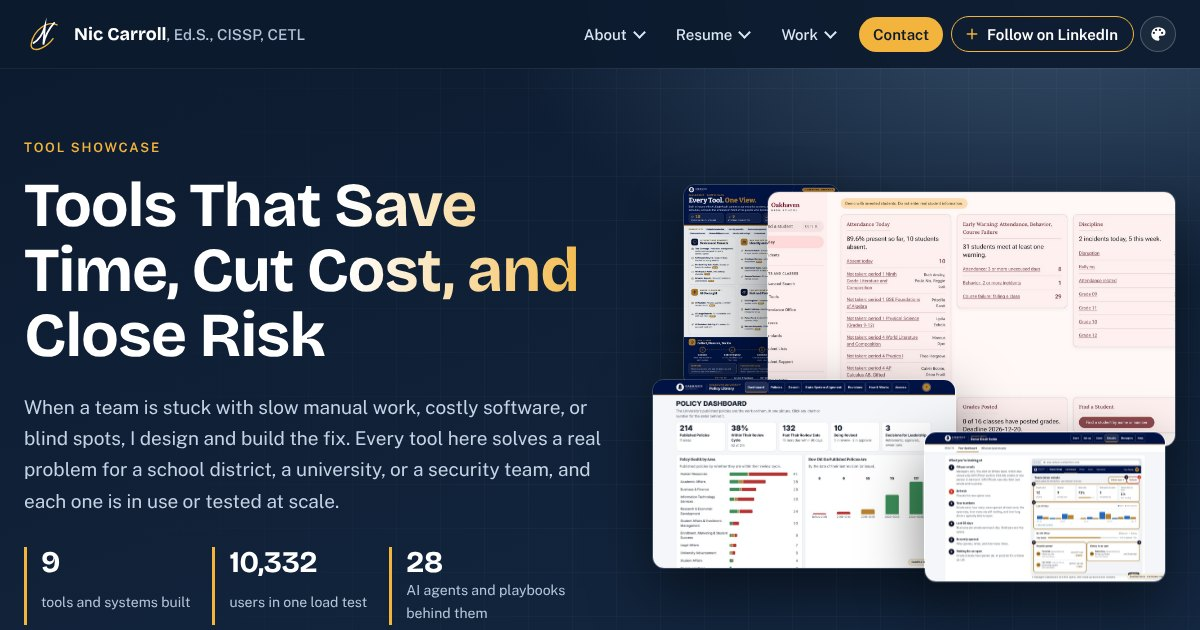
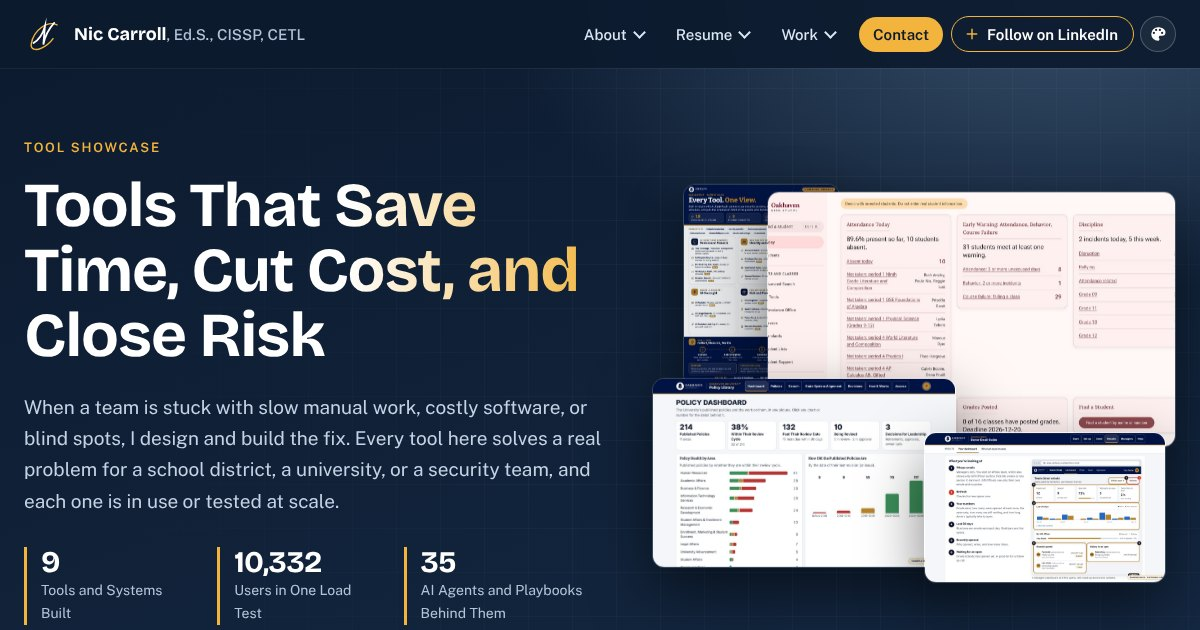
Title Case for labels across the site; fix agent counts after adding the K12 group
Claude-Session: https://claude.ai/code/session_018uX2ZPpfU6CuiUd8wg41G2

diff --git a/public/titlecase.js b/public/titlecase.js
@@ -1,0 +1,25 @@
+/* Title Case for labels. Runs on short label text only (stat captions, chips, menu notes, card titles), never on body text. */
+(() => {
+  const SMALL = new Set(["a", "an", "and", "as", "at", "but", "by", "for", "in", "nor", "of", "on", "or", "per", "the", "to", "via", "vs"]);
+  const cap = w => w.replace(/^([("'“]*)([a-z])/, (m, p, c) => p + c.toUpperCase());
+  const word = (w, edge) => { if (!w) return w; if (/[A-Z]/.test(w.replace(/^[^A-Za-z]*[A-Za-z]/, "")) || /\d/.test(w) && /[A-Z]/.test(w)) return w;
+    if (w.includes("-") && !/^-|-$/.test(w)) return w.split("-").map((p, i) => word(p, i === 0 && edge)).join("-");
+    const bare = w.toLowerCase().replace(/[^a-z']/g, ""); if (!edge && SMALL.has(bare) && w === w.toLowerCase()) return w; return cap(w); };
+  window.ncTitleCase = s => { const parts = s.split(/(\s+)/); let first = true, lastIdx = -1; parts.forEach((p, i) => { if (p.trim()) lastIdx = i; });
+    return parts.map((p, i) => { if (!p.trim()) return p; const edge = first || i === lastIdx || /[:.!?]$/.test(parts[i - 2] || ""); first = false; return word(p, edge); }).join(""); };
+  const SEL = [
+    "header.nav details.menu a span", ".scheme-link span", ".pill", ".badge",
+    "#proof span", ".k12-feature li span", ".ag .top span", "#ag-stats span", "#ag-stats small", ".pmetric span", ".pchips span", ".metric small", "details.story summary",
+    ".case .tools span", ".group-head span", "#pillars b", ".posts .k", ".now", "#building h3", ".tool-strip span", ".icard h3", ".ag-group summary h3",
+    ".hero-stats span", ".facts > div > span", ".mcard h3", "body > footer span", "body > footer a",
+    ".tabs button small", ".walk b", ".node .time", ".steps .when",
+    ".cta .btn", ".hero-grid b", ".sec-head h2", "main h3", ".step span", ".step small", ".who", "button.tab", ".kpi .k", ".field > span", "th", ".seg button", ".idea b", ".ver .label", ".layer .label", "#plist summary", "summary .when", ".byline span", ".branch b", ".stepnav .btn", "h1", "#plist .btn", ".rowgap .muted", "a.skip", ".case .top > .metric"
+  ].join(", ");
+  const fix = root => { if (!SEL) return; root.querySelectorAll(SEL).forEach(el => { if (el.dataset.tc) return; el.dataset.tc = "1";
+    const walk = n => n.childNodes.forEach(c => { if (c.nodeType === 3) { const t = c.nodeValue, x = t.trim(); if (x) { const n2 = window.ncTitleCase(t); if (n2 !== t) c.nodeValue = n2; } }
+      else if (c.nodeType === 1 && !/^(CODE|PRE|SCRIPT|STYLE|SVG|INPUT|SELECT|TEXTAREA)$/i.test(c.tagName)) walk(c); });
+    walk(el); }); };
+  const run = () => fix(document);
+  if (document.readyState === "loading") document.addEventListener("DOMContentLoaded", run); else run();
+  let t; new MutationObserver(() => { clearTimeout(t); t = setTimeout(run, 60); }).observe(document.documentElement, { childList: true, subtree: true });
+})();

diff --git a/public/index.html b/public/index.html
@@ -495,6 +495,7 @@
     .contact p { color: var(--ink); font-size: 11pt; }
   }
 </style>
+<script src="titlecase.js" defer></script>
 </head>
 <body>
 <a class="skip" href="#main">Skip to content</a>
@@ -912,7 +913,7 @@ fetch("resume.json", { cache: "no-cache" }).then(r => { lastMod = r.headers.get(
     b.textContent = box.hidden ? "Show More" : "Show Less";
   }));
   if ((d.agents || []).length) {
-    const total = d.agents.reduce((n, g) => n + g.items.length, 0), sched = d.agents[0].items.length, nightly = d.agents[0].items.filter(i => /night|daily/i.test(i.when)).length;
+    const total = d.agents.reduce((n, g) => n + g.items.length, 0), sg = d.agents.find(g => /schedule/i.test(g.group)) || { items: [] }, sched = sg.items.length, nightly = sg.items.filter(i => /night|daily/i.test(i.when)).length;
     $("ag-stats").innerHTML = [[total, "agents, skills, and playbooks, all downloadable"], [sched, "agents working on a schedule"], [nightly, "run every day, each ending in a pull request for me"], ["0", "can release without my approval"]].map(([b, t]) => `<div><b>${b}</b><span>${esc(t)}</span></div>`).join("");
     $("ag-list").innerHTML = d.agents.map((g, gi) => `<details class="ag-group" ${gi === 0 ? "open" : ""}><summary><h3>${esc(g.group)}</h3><span class="n">${g.items.length}</span><p>${esc(g.intro)}</p></summary><div class="ag-items">${g.items.map(i => `<div class="ag"><div class="top"><span>${esc(i.for)}</span><span>${esc(i.when)}</span></div><b>${esc(i.name)}</b><p>${esc(i.text)}</p>${i.file ? `<div class="ag-acts"><button type="button" class="ag-dl ag-pv" data-doc="${esc(i.file)}" data-name="${esc(i.name)}" data-for="${esc(i.for)}">Preview</button><a class="ag-dl" href="${esc(i.file)}" download>Download</a><button type="button" class="ag-dl" data-copy="${esc(i.file)}">Copy Link</button></div>` : ""}</div>`).join("")}</div></details>`).join("");
   } else { $("agents").hidden = true; }

diff --git a/public/showcase.html b/public/showcase.html
@@ -179,6 +179,7 @@
   @media (prefers-reduced-motion: reduce) { .reveal { opacity: 1; transform: none; transition: none; } html { scroll-behavior: auto; } .shot, .jump a { transition: none; } }
   @media (max-width: 900px) { .nav nav { display: none; } .split { grid-template-columns: 1fr; } .mark small { display: none; } .jump { transform: none; padding-bottom: 40px; } .tool:first-of-type { padding-top: 72px; } }
 </style>
+<script src="titlecase.js" defer></script>
 </head>
 <body>
 <a class="skip" href="#main">Skip to content</a>
@@ -224,7 +225,7 @@
       <h1>Tools That Save Time, Cut Cost, and Close Risk</h1>
       <p class="lede">When a team is stuck with slow manual work, costly software, or blind spots, I design and build the fix. Every tool here solves a real problem for a school district, a university, or a security team, and each one is in use or tested at scale.</p>
       
-      <div class="hero-stats"><div><b>9</b><span>tools and systems built</span></div><div><b>10,332</b><span>users in one load test</span></div><div><b>28</b><span>AI agents and playbooks behind them</span></div></div>
+      <div class="hero-stats"><div><b>9</b><span>tools and systems built</span></div><div><b>10,332</b><span>users in one load test</span></div><div><b>35</b><span>AI agents and playbooks behind them</span></div></div>
       <p class="quiet">Demo screens use sample data.</p>
       </div>
       <div class="collage" aria-hidden="true">

diff --git a/public/k12-playbook.html b/public/k12-playbook.html
@@ -221,6 +221,7 @@ footer{padding:32px 0 56px;color:var(--on-surface-variant);font-size:.875rem}
 .flow>*,.howto>*,.tgrid>*,.two>*,.hero-grid>*{min-width:0}@media (max-width:860px){.howto,.tgrid,.two,.hero-grid{grid-template-columns:minmax(0,1fr)}.howto ol,.howto ul{grid-template-columns:minmax(0,1fr);max-width:100%}.howto li{min-width:0;overflow-wrap:anywhere}.flow{grid-template-columns:minmax(0,1fr)}.steps{max-width:100%}}
 @media (max-width:900px){.ideas{grid-template-columns:1fr 1fr !important}}@media (max-width:520px){.ideas{grid-template-columns:1fr !important}}
 </style>
+<script src="titlecase.js" defer></script>
 </head>
 <body>
 

diff --git a/public/brand.html b/public/brand.html
@@ -133,6 +133,7 @@
 </style>
 <link rel="stylesheet" href="term.css">
 <script src="term.js" defer></script>
+<script src="titlecase.js" defer></script>
 </head>
 <body>
 <a class="skip" href="#main">Skip to content</a>

diff --git a/public/reimagine.html b/public/reimagine.html
@@ -156,6 +156,7 @@
 </style>
 <link rel="stylesheet" href="term.css">
 <script src="term.js" defer></script>
+<script src="titlecase.js" defer></script>
 </head>
 <body>
 <a class="skip" href="#main">Skip to content</a>

diff --git a/public/security.html b/public/security.html
@@ -102,6 +102,7 @@
 </style>
 <link rel="stylesheet" href="term.css">
 <script src="term.js" defer></script>
+<script src="titlecase.js" defer></script>
 </head>
 <body>
 <a class="skip" href="#main">Skip to content</a>
